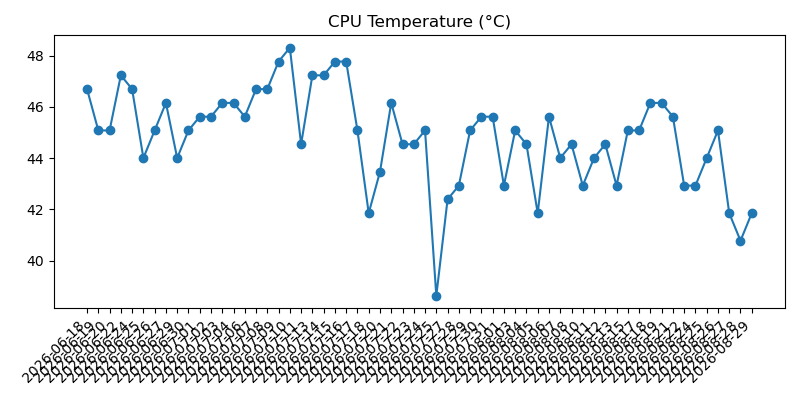
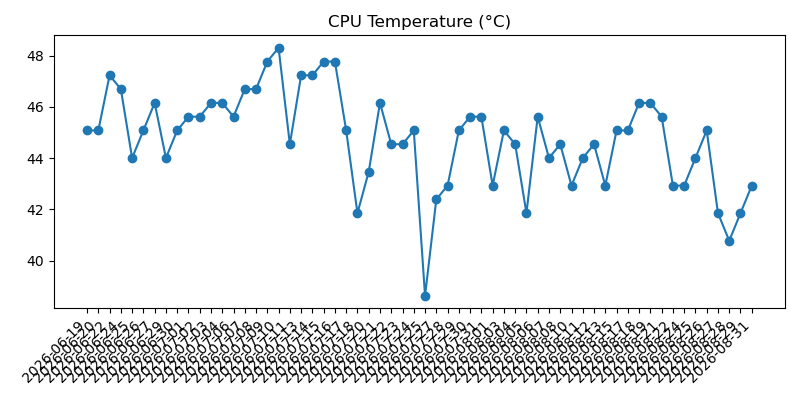
Add daily system and weather report

Changed region(s): [[0.0938, 0.09, 0.9688, 0.75], [0.0938, 0.81, 0.9375, 0.87]]

diff --git a/2026-08.md b/2026-08.md
@@ -782,3 +782,37 @@
 - Overall: Warning
 - Warning: Power issue detected: Undervoltage has occurred; Throttling has occurred
 
+## 2026-08-31 10:42:16
+
+### Machine
+- Uptime: up 18 hours, 53 minutes
+- CPU load (1m, 5m, 15m): 0.00, 0.00, 0.00
+- RAM used: 270 MB / 920 MB (29.3%)
+- Disk used (/): 4.1 GB / 28.8 GB (14.1%)
+- Free disk space (/): 23.5 GB
+- CPU temp: 42.9°C
+- Voltage / throttling: OK
+
+### Reachability
+- Internet check (1.1.1.1): Reachable (3.6 ms)
+
+### Weather
+- Madrid:
+  - Condition: Despejado
+  - Max temp: 33°C
+  - Min temp: 18°C
+  - Feels like: 26°C
+  - Chance of rain: 0%
+  - Warnings: None reported
+- Barcelona:
+  - Condition: Intervalos nubosos
+  - Max temp: 31°C
+  - Min temp: 24°C
+  - Feels like: 28°C
+  - Chance of rain: 45%
+  - Warnings: None reported
+
+### Health
+- Overall: Good
+- Warning: None
+
